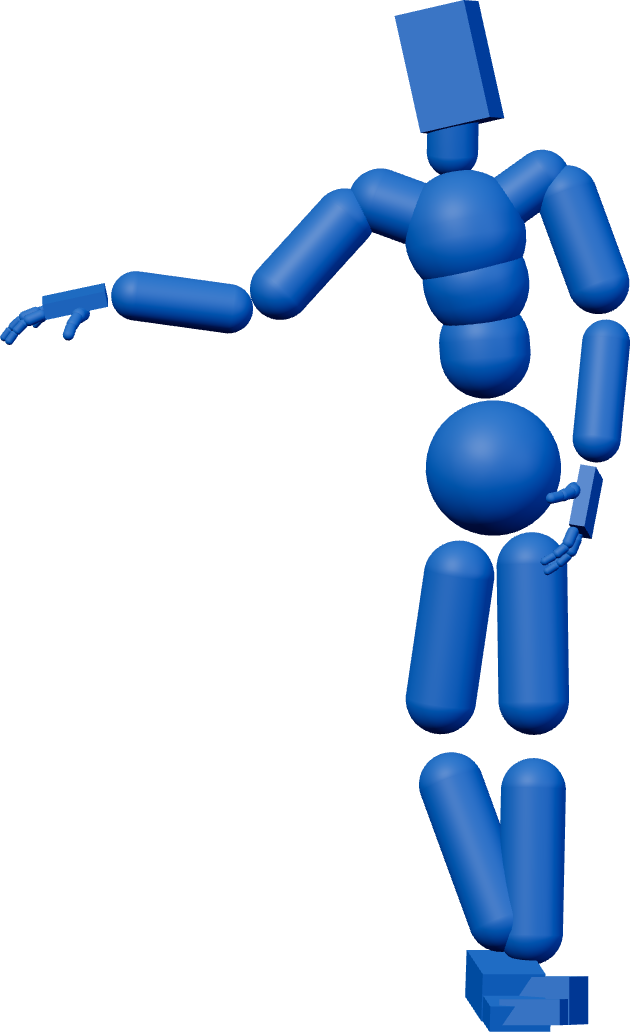
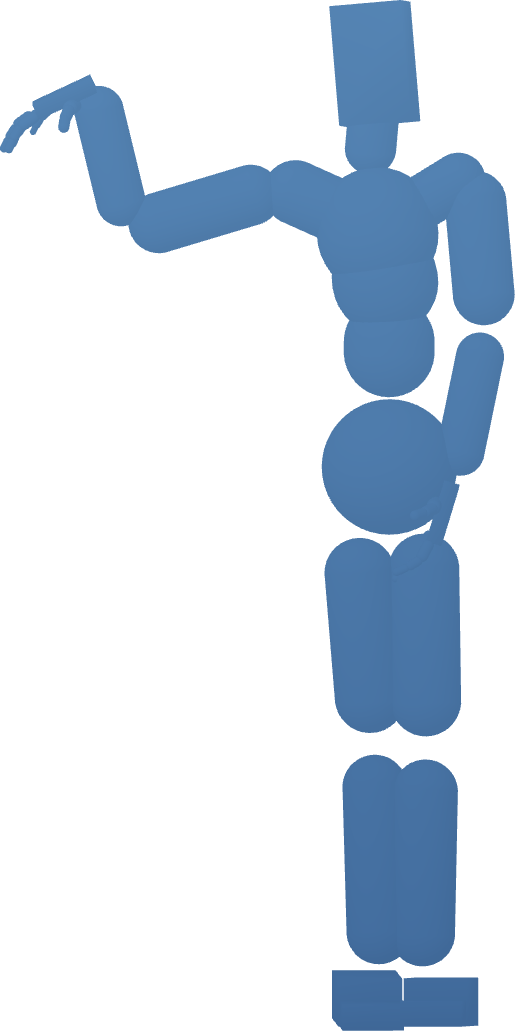
Integrate robot with wordmark palette and I proportions

diff --git a/style.css b/style.css
@@ -15,12 +15,15 @@ main { max-width: 1336px; padding: 0 48px 64px; margin: auto; }
 .paper-heading { text-align: center; padding: 58px 24px 42px; margin-bottom: 32px; background: radial-gradient(ellipse at 50% 0%, #e2edf8 0%, transparent 68%), linear-gradient(115deg, #f1f5f8, #f7f9fc 54%, #edf3f8); border-bottom: 1px solid #d9e4ee; }
 h1 { margin: 0; font-optical-sizing: auto; }
 .project-name { display: inline-block; padding: 0 .06em .07em; margin-bottom: 17px; font-size: clamp(3.7rem, 6.8vw, 6rem); line-height: 1.08; letter-spacing: -.055em; color: #3977b0; }
-.wordmark-lettering { background: linear-gradient(110deg, #35699c 5%, #659aca 45%, #4c83b8 70%, #41679c); -webkit-background-clip: text; background-clip: text; -webkit-text-fill-color: transparent; }
+.wordmark-lettering { position: relative; z-index: 2; display: inline-block; padding-right: .12em; margin-right: -.12em; background: linear-gradient(110deg, #35699c 5%, #659aca 45%, #4c83b8 70%, #41679c); -webkit-background-clip: text; background-clip: text; -webkit-text-fill-color: transparent; }
 .wordmark-world { font-family: Georgia, "Times New Roman", serif; font-style: italic; font-weight: 500; letter-spacing: -.065em; }
 .wordmark-two { font-family: Georgia, "Times New Roman", serif; font-style: italic; font-weight: 400; font-size: .79em; padding-inline: .025em .055em; }
 .wordmark-hosi { font-family: Georgia, "Times New Roman", serif; font-style: italic; font-weight: 500; letter-spacing: -.055em; }
-.wordmark-avatar { position: relative; display: inline-block; width: .43em; height: .7em; vertical-align: baseline; }
-.wordmark-avatar img { position: absolute; height: 1.04em; width: auto; max-width: none; bottom: -.025em; left: -.25em; user-select: none; pointer-events: none; }
+.wordmark-avatar { position: relative; z-index: 1; display: inline-block; width: .34em; height: .7em; vertical-align: baseline; }
+.wordmark-avatar img { position: absolute; height: .73em; width: auto; max-width: none; bottom: -.015em; left: -.12em; user-select: none; pointer-events: none; }
+.wordmark-avatar::before, .wordmark-avatar::after { content: ''; position: absolute; left: .108em; width: .19em; height: .024em; border-radius: .008em; transform: skewX(-12deg); pointer-events: none; }
+.wordmark-avatar::before { bottom: .696em; background: #5180af; }
+.wordmark-avatar::after { bottom: -.009em; background: #416b9d; }
 .paper-title { font-family: Georgia, "Times New Roman", serif; font-style: italic; display: block; max-width: 850px; margin: auto; font-size: clamp(1.25rem, 2vw, 1.65rem); line-height: 1.5; letter-spacing: -.018em; font-weight: 400; color: #4e6175; text-wrap: balance; }
 .paper-links { display: flex; justify-content: center; gap: 12px; margin-top: 26px; }
 .paper-link { display: inline-flex; align-items: center; justify-content: center; gap: 9px; min-height: 44px; padding: 10px 22px; border: 1px solid #cbd9e6; border-radius: 999px; background: #ffffffb8; box-shadow: inset 0 1px 0 #fff, 0 2px 4px #344e6806; color: #375d81; font-size: .9375rem; line-height: 1.4; text-decoration: none; -webkit-tap-highlight-color: transparent; transition: transform 220ms var(--ease-out), background 180ms ease, box-shadow 220ms ease, border-color 180ms ease; }

diff --git a/index.html b/index.html
@@ -8,12 +8,12 @@
   <meta name="referrer" content="no-referrer">
   <title>World2HOSI: A Multi-Expert Harness for Long-Horizon Human-Object-Scene Interaction Generation</title>
   <link rel="icon" href="favicon.svg" type="image/svg+xml">
-  <link rel="stylesheet" href="style.css?v=31">
+  <link rel="stylesheet" href="style.css?v=32">
   <script type="importmap">{"imports":{"three":"./vendor/three.module.js","three/addons/postprocessing/Pass.js":"./vendor/Pass.js","@sparkjsdev/spark":"./vendor/spark.module.js"}}</script>
 </head>
 <body>
   <header class="paper-heading">
-    <h1><span class="project-name" role="img" aria-label="World2HOSI"><span class="wordmark-lettering"><span class="wordmark-world">World</span><span class="wordmark-two">2</span><span class="wordmark-hosi">HOS</span></span><span class="wordmark-avatar" aria-hidden="true"><img src="assets/wordmark-robot.png" width="630" height="1032" alt="" draggable="false" fetchpriority="high"></span></span><span class="paper-title">A Multi-Expert Harness for Long-Horizon<br class="desktop-break"> Human-Object-Scene Interaction Generation</span></h1>
+    <h1><span class="project-name" role="img" aria-label="World2HOSI"><span class="wordmark-lettering"><span class="wordmark-world">World</span><span class="wordmark-two">2</span><span class="wordmark-hosi">HOS</span></span><span class="wordmark-avatar" aria-hidden="true"><img src="assets/wordmark-robot.png?v=2" width="515" height="1031" alt="" draggable="false" fetchpriority="high"></span></span><span class="paper-title">A Multi-Expert Harness for Long-Horizon<br class="desktop-break"> Human-Object-Scene Interaction Generation</span></h1>
     <nav class="paper-links" aria-label="Paper resources">
       <a class="paper-link" href="about:blank" target="_blank" rel="noopener noreferrer" aria-label="Paper (placeholder, opens a blank tab)"><svg viewBox="0 0 24 24" aria-hidden="true"><path d="M14 3H6a1 1 0 0 0-1 1v16a1 1 0 0 0 1 1h12a1 1 0 0 0 1-1V8Z"/><path d="M14 3v5h5M8 13h8M8 17h6"/></svg><span>Paper</span></a>
       <a class="paper-link" href="about:blank" target="_blank" rel="noopener noreferrer" aria-label="arXiv (placeholder, opens a blank tab)"><img class="arxiv-logomark" src="assets/arxiv-logomark.svg" width="18" height="20" alt=""><span>arXiv</span></a>
